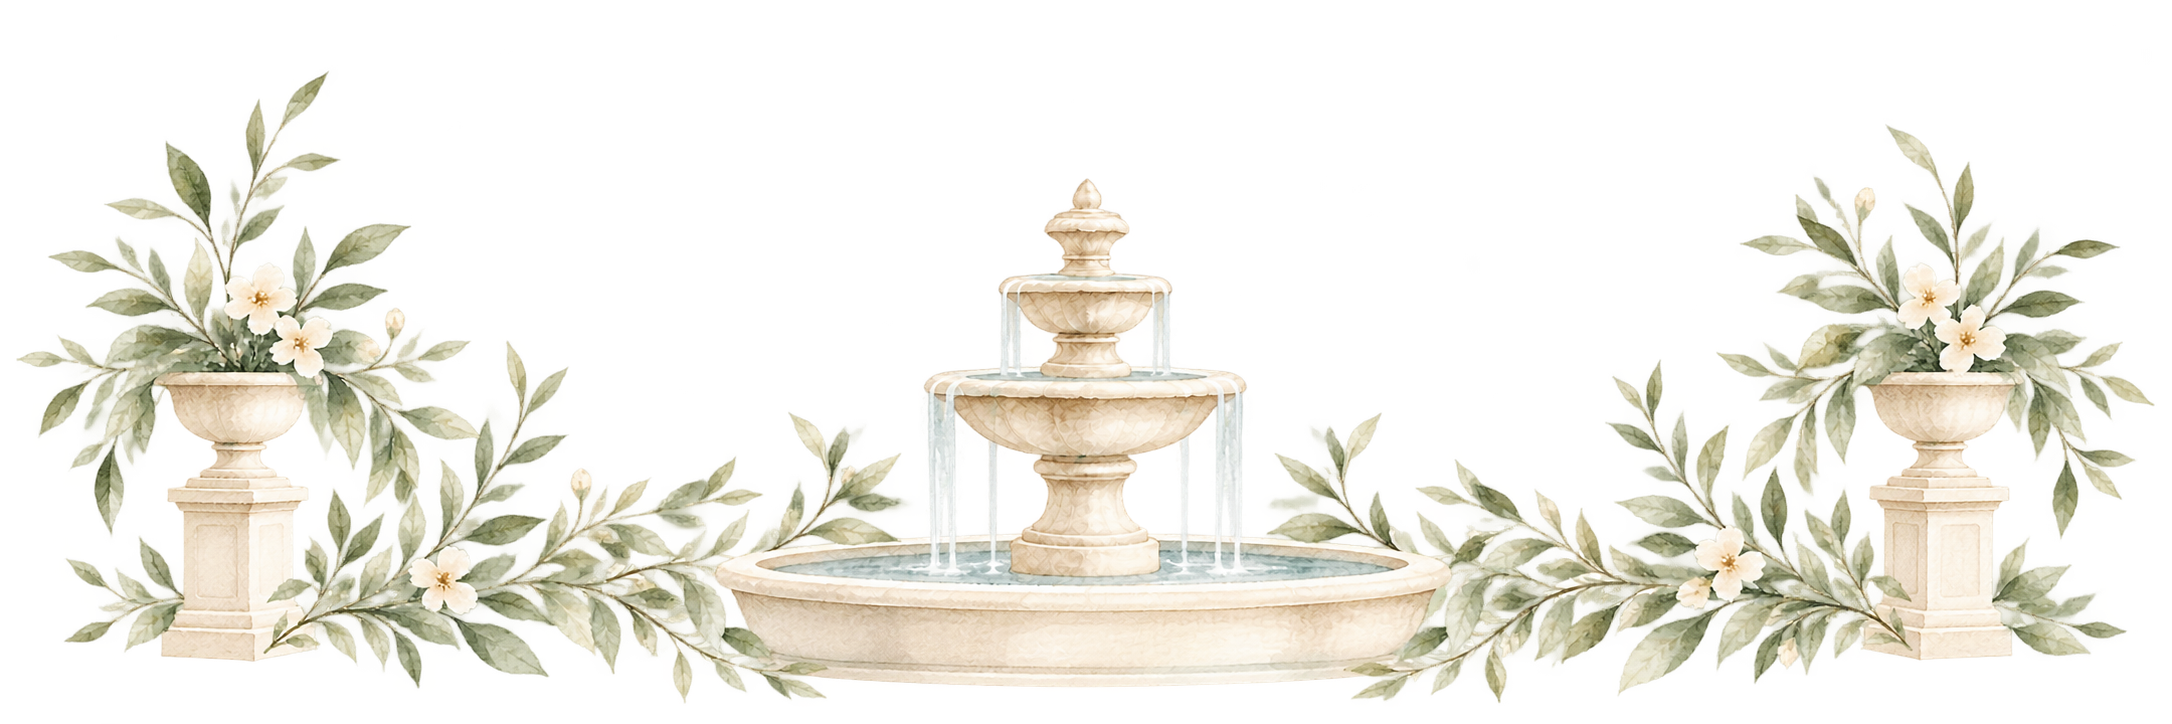
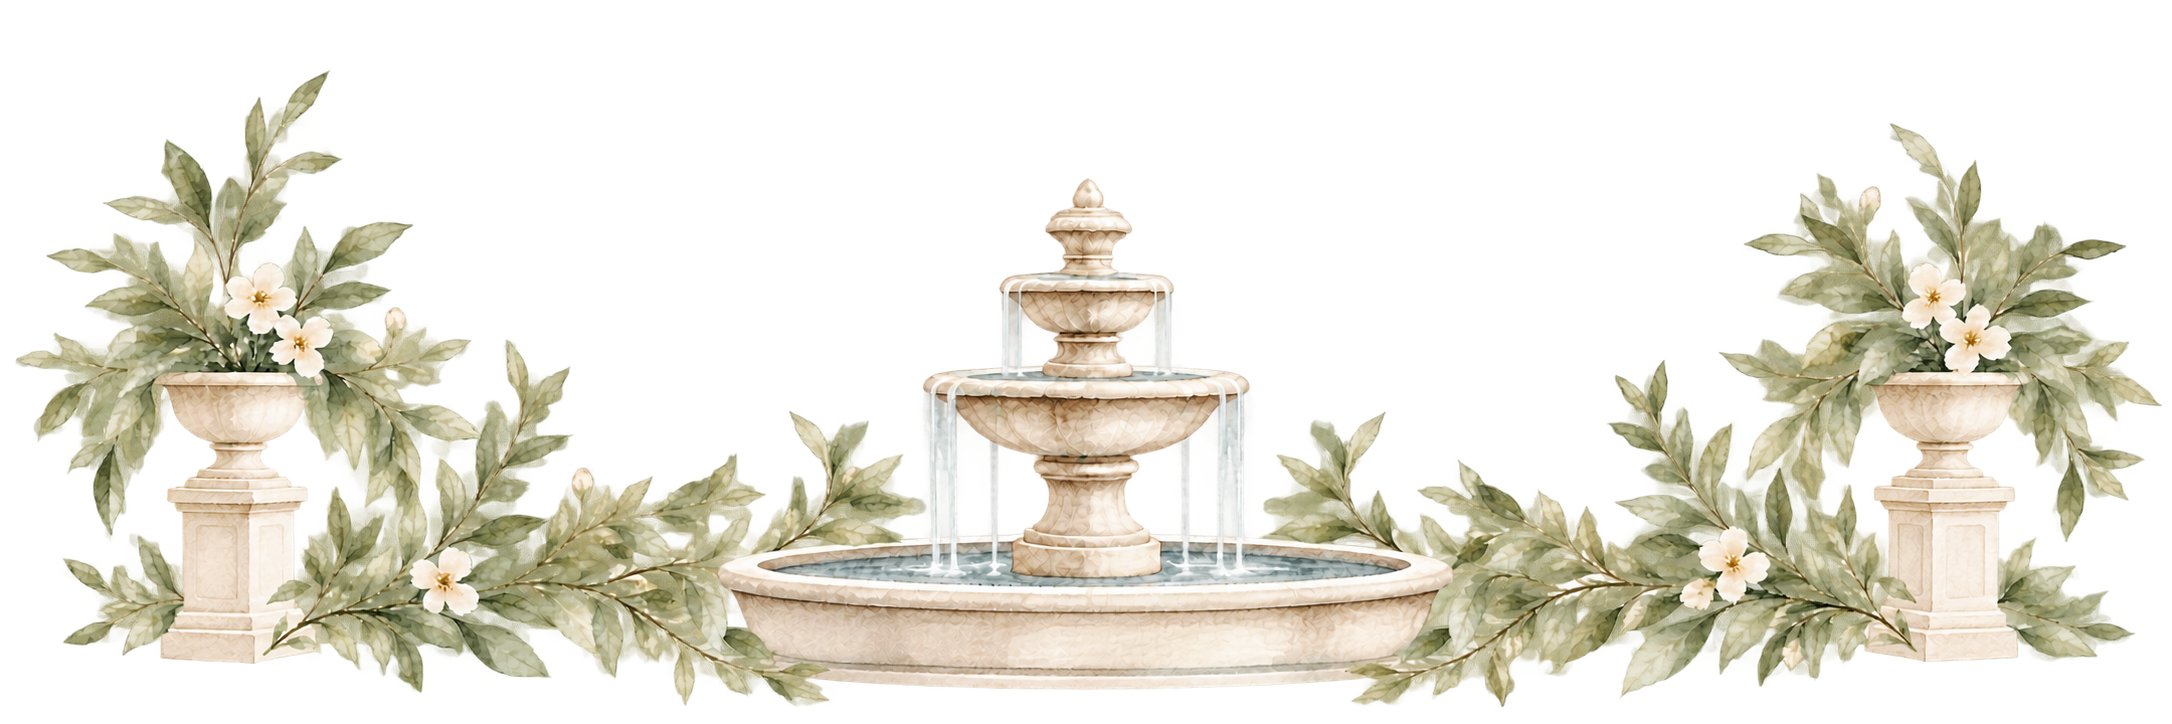
Refine Fountain Reverie footer styling

Changed region(s): [[0.0, 0.1215, 1.0, 0.9724]]

diff --git a/src/invitations/fountain-reverie-shared/fountain-reverie.css b/src/invitations/fountain-reverie-shared/fountain-reverie.css
@@ -3573,15 +3573,12 @@
       rgba(246, 246, 236, 0) 100%);
 }
 
-/* Let the footer melt up into the shared canvas so the memories → footer
-   boundary is a soft fade rather than a hard colour step. */
+/* Keep the footer neutral so the fountain remains crisp against a clean ivory
+   field, and shorten the reserved artwork area to bring it closer to the copy. */
 .fountain-footer {
-  background:
-    linear-gradient(180deg,
-      rgba(251, 246, 235, 0) 0%,
-      rgba(249, 242, 228, 0.55) 14%,
-      rgba(245, 236, 219, 0.85) 50%,
-      rgba(241, 233, 216, 0.95) 100%);
+  min-height: clamp(300px, 43vw, 470px);
+  padding-bottom: clamp(144px, 22vw, 250px);
+  background: #f7f3ea;
 }
 
 /* Larger, more readable note copy in the message section */
@@ -3715,7 +3712,18 @@
   letter-spacing: 0.08em;
 }
 
+.fountain-footer h2 span {
+  margin-inline: 0.13em;
+  font-size: 0.82em;
+  vertical-align: 0.01em;
+}
+
 @media (max-width: 680px) {
+  .fountain-footer {
+    min-height: 290px;
+    padding-bottom: 124px;
+  }
+
   .fountain-event-card dl {
     grid-template-columns: 1fr;
   }
